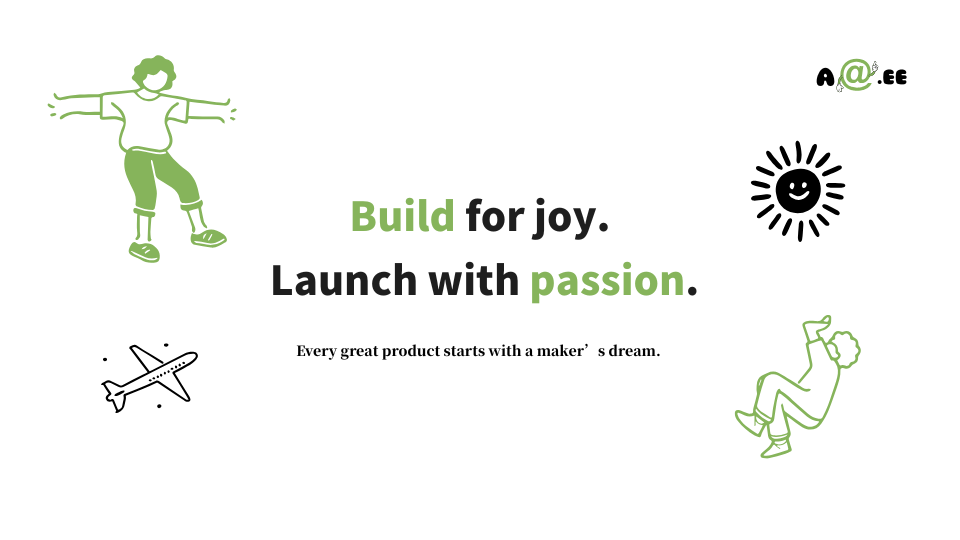
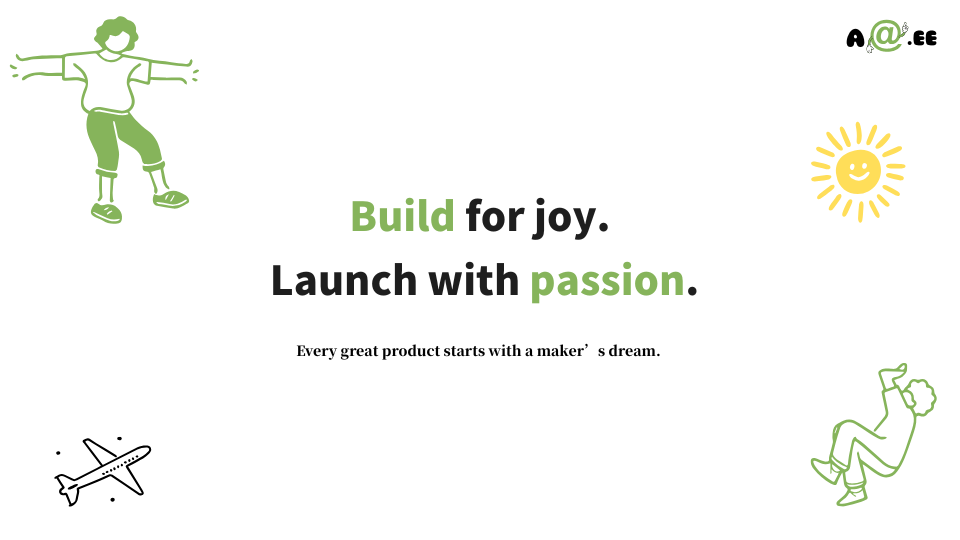
feat: 添加 AVIF 图片格式上传支持
- 在前端上传组件中添加 image/avif 到 accept 属性
- 在后端 API 中添加 image/avif 到允许的文件类型列表
- 更新错误提示信息，包含 AVIF 格式说明
- AVIF 是现代高效的图片格式，文件更小，质量更高

支持的图片格式：JPEG, PNG, WEBP, GIF, AVIF

diff --git a/app/api/upload/route.ts b/app/api/upload/route.ts
@@ -8,7 +8,14 @@ import { uploadFileToR2 } from "@/lib/r2-client"
 const MAX_FILE_SIZE = 1024 * 1024
 
 // 允许的文件类型
-const ALLOWED_TYPES = ["image/jpeg", "image/jpg", "image/png", "image/webp", "image/gif"]
+const ALLOWED_TYPES = [
+  "image/jpeg",
+  "image/jpg",
+  "image/png",
+  "image/webp",
+  "image/gif",
+  "image/avif",
+]
 
 // 验证用户身份
 async function authenticateUser() {
@@ -48,7 +55,7 @@ export async function POST(request: NextRequest) {
     // 验证文件类型
     if (!ALLOWED_TYPES.includes(file.type)) {
       return NextResponse.json(
-        { error: "不支持的文件类型，仅支持图片格式（JPEG, PNG, WEBP, GIF）" },
+        { error: "不支持的文件类型，仅支持图片格式（JPEG, PNG, WEBP, GIF, AVIF）" },
         { status: 400 },
       )
     }

diff --git a/components/ui/upload-button.tsx b/components/ui/upload-button.tsx
@@ -84,7 +84,7 @@ export function UploadButton({
       <label className={appearance?.button || "cursor-pointer"}>
         <input
           type="file"
-          accept="image/jpeg,image/jpg,image/png,image/webp,image/gif"
+          accept="image/jpeg,image/jpg,image/png,image/webp,image/gif,image/avif"
           onChange={handleFileChange}
           disabled={isUploading}
           className="hidden"